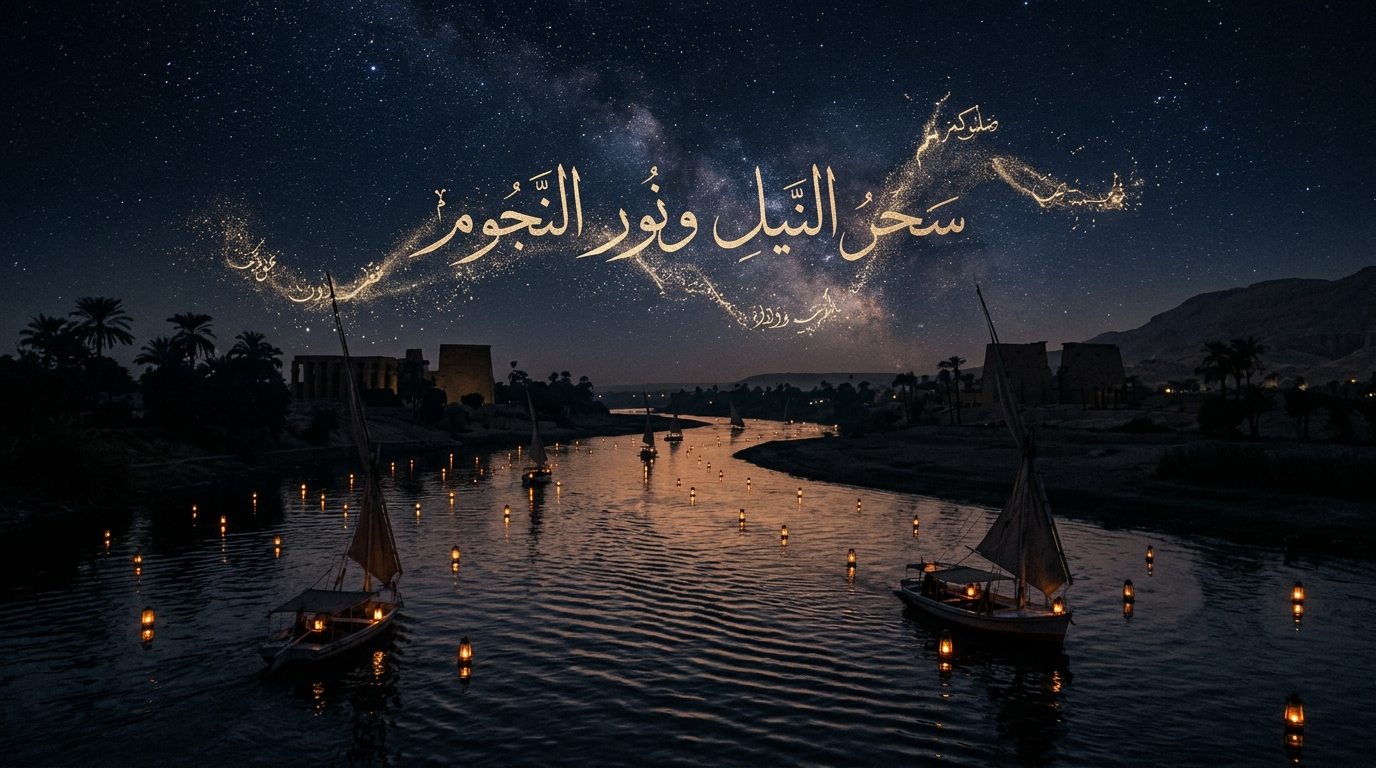
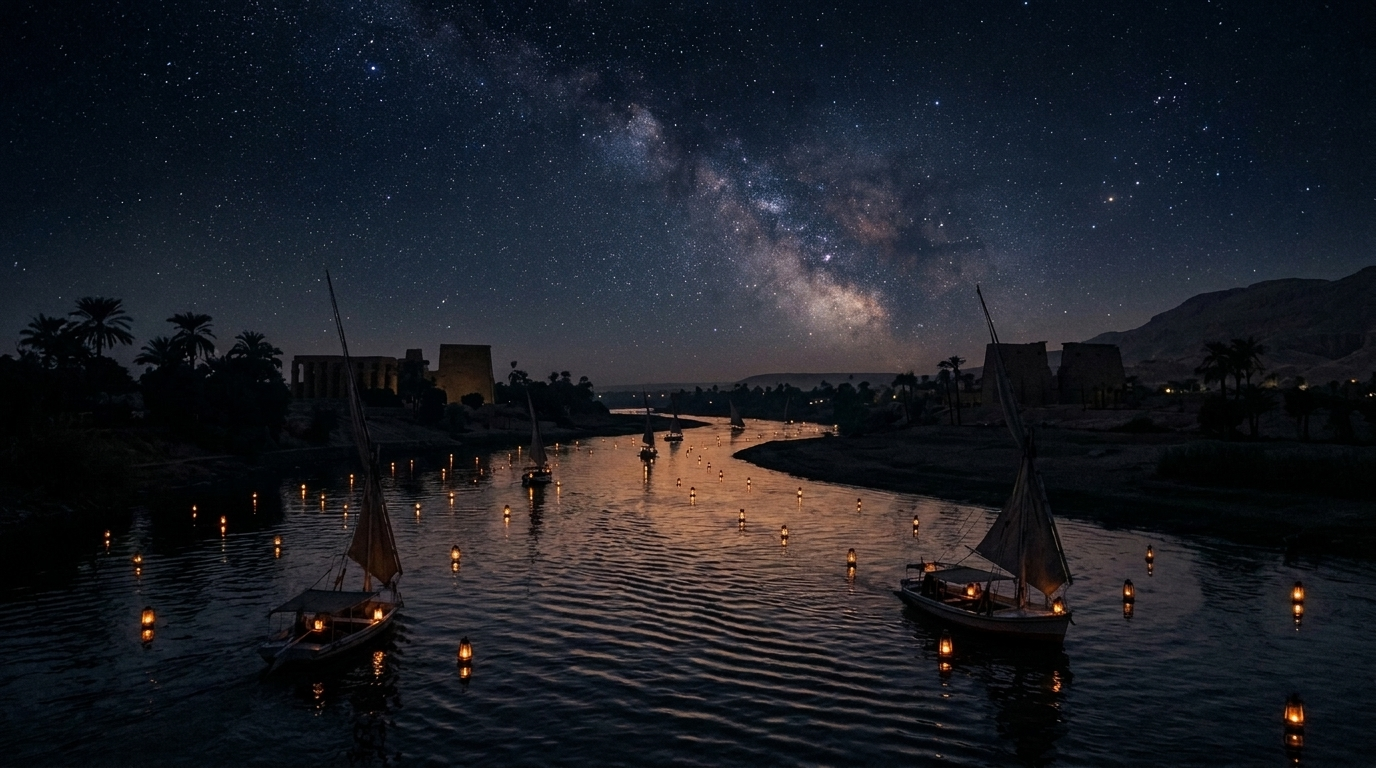
feat: remove Arabic calligraphy text from poetic night background image

Changed region(s): [[0.125, 0.125, 0.8438, 0.4375]]

diff --git a/index.html b/index.html
@@ -144,7 +144,7 @@
   </header>
 
   <!-- Hero Section -->
-  <section id="hero" class="hero-section" style="background-image: url('assets/images/poetic_night_bg.jpg');">
+  <section id="hero" class="hero-section" style="background-image: url('assets/images/poetic_night_bg.jpg?v=clean_sky');">
     <div class="hero-overlay"></div>
     <div class="container hero-grid">
 
